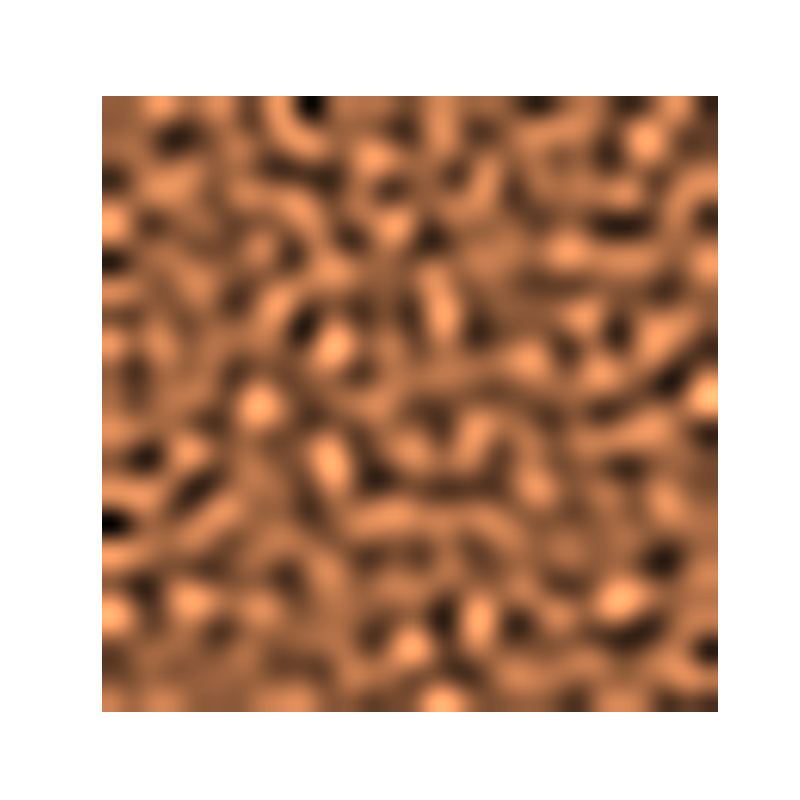
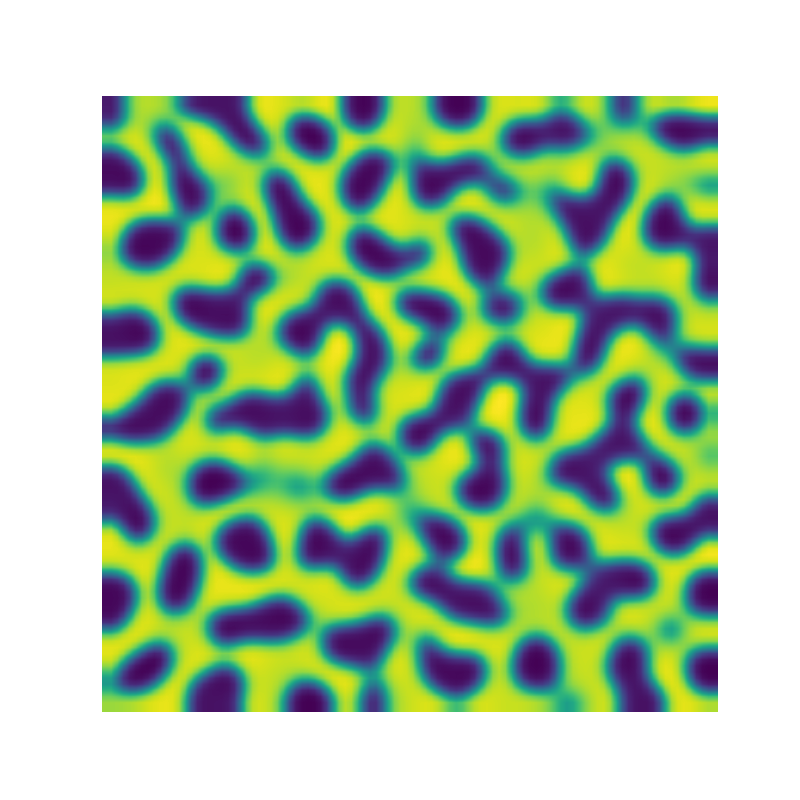
Updated turing plotting (closes #14)

diff --git a/fd_main.py b/fd_main.py
@@ -19,16 +19,16 @@ k = -.005
 size = 100  # size of the 2D grid
 dx = 2. / size  # space step
 
-T = 9.0  # total time
+T = 10.0  # total time
 dt = .001  # time step
 n = int(T / dt)  # number of iterations
-plot_num = 100
+plot_num = 10
 
 U = np.random.rand(size, size)
 V = np.random.rand(size, size)
 
-U = np.ones((size, size)) + 0.01 * np.random.rand(size, size)
-V = np.ones((size, size)) + 0.01 * np.random.rand(size, size)
+# U = np.ones((size, size)) + 0.01 * np.random.rand(size, size)
+# V = np.ones((size, size)) + 0.01 * np.random.rand(size, size)
 
 step_plot = n // plot_num
 plot_count = 0
@@ -58,13 +58,15 @@ for i in range(n):
               interpolation='bilinear',
               extent=[-1, 1, -1, 1])
         plt.title(f'$t={i * dt:.2f}$')
-        plt.savefig(f"Images/Spatial_ODE/Turing_Evolution_Const_{plot_count:04d}.png")
+        plt.savefig(f"Images/Spatial_ODE/Turing_Evolution_Const2_{plot_count:04d}.png")
         #plt.show()
         
-create_gif("Images/Spatial_ODE/Turing_Evolution_Const")
+#create_gif("Images/Spatial_ODE/Turing_Evolution_Const2")
 
 fig, ax = plt.subplots(1, 1, figsize=(8, 8))
 show_patterns(U, ax=ax)
-plt.savefig("Images/Turing_Final_State.png")
+plt.title(f'$t={i * dt:.2f}$')
+#plt.savefig("Images/Turing_Final_State.png")
+#plt.show()
 
 

diff --git a/finite_difference.py b/finite_difference.py
@@ -29,7 +29,7 @@ def show_patterns(U, ax=None):
     
     Params:
     U [Array] - Array of spatial data to plot"""
-    ax.imshow(U, cmap=plt.cm.copper,
+    ax.imshow(U, cmap=plt.cm.viridis,
               interpolation='bilinear',
               extent=[-1, 1, -1, 1])
     ax.set_axis_off()
